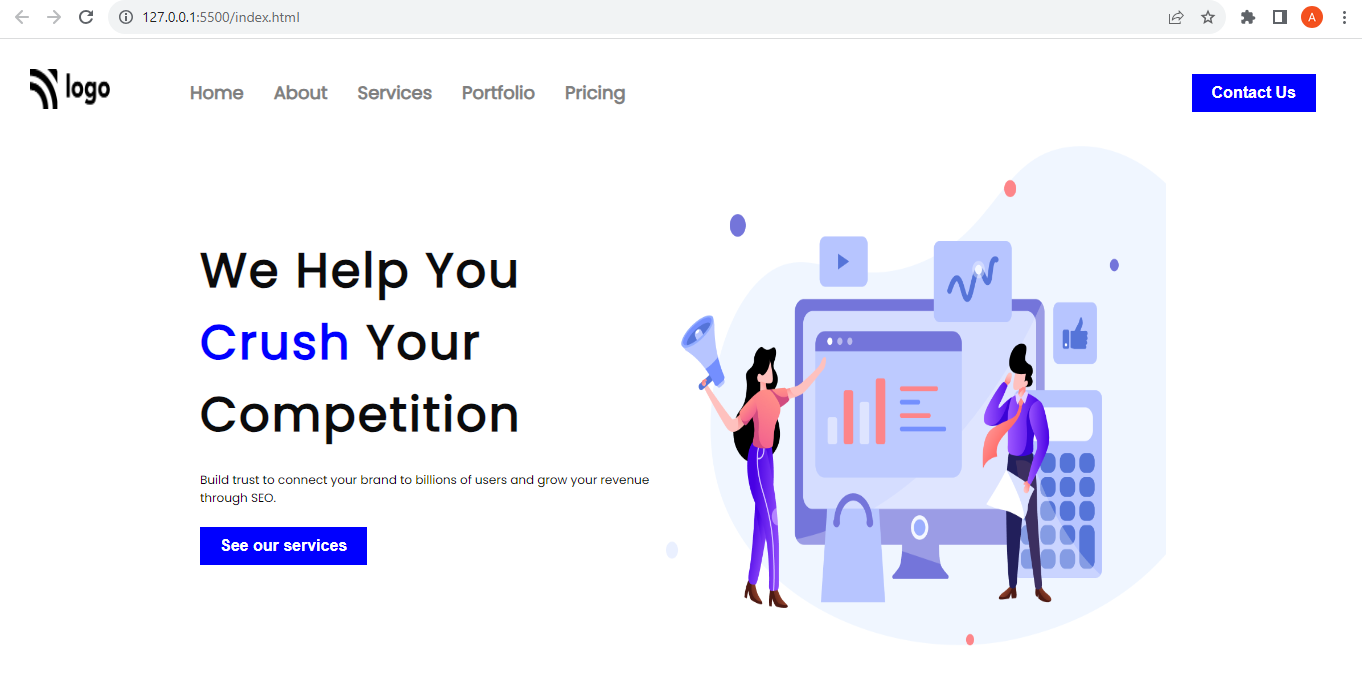
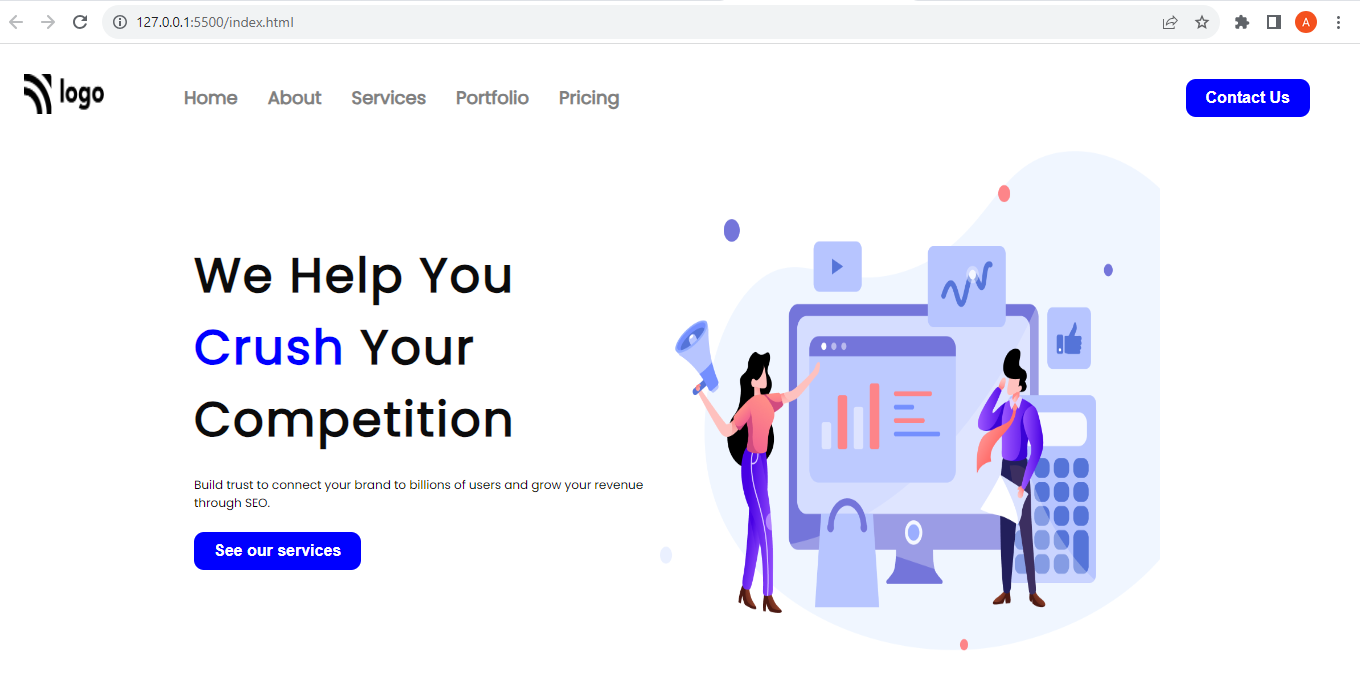
HTML&CSS Project2 committed

diff --git a/HTML&CSS Project2/style.css b/HTML&CSS Project2/style.css
@@ -49,6 +49,7 @@ body {
   font-size: 16px;
   font-weight: bold;
   cursor: pointer;
+  border-radius: 10px;
 }
 
 .navigationBar {
@@ -92,6 +93,7 @@ body {
   font-size: 16px;
   font-weight: bold;
   cursor: pointer;
+  border-radius: 10px;
 }
 
 .bImg img {
